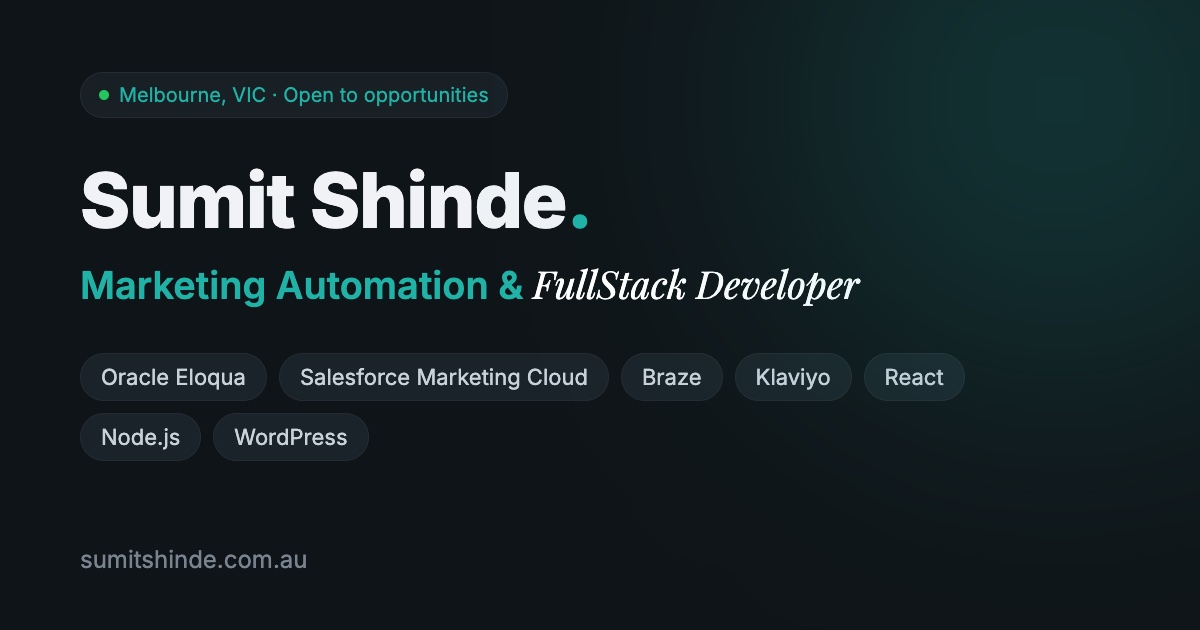
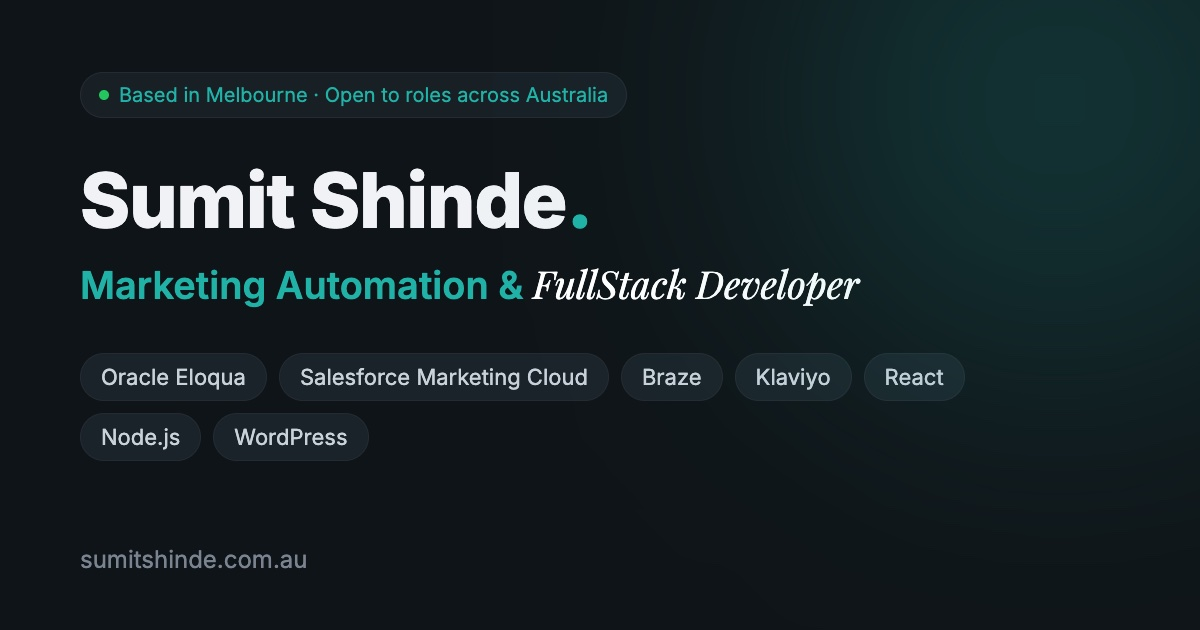
SEO: target major Australian cities, not just Melbourne
Visible availability text, meta description, crawler summary and a
schema.org seeks/areaServed list now name Sydney, Melbourne, Brisbane,
Perth, Adelaide, Canberra, Gold Coast, Hobart, Darwin and remote
Australia. Social preview badge updated to match.

Changed region(s): [[0.0925, 0.1206, 0.5242, 0.181]]

diff --git a/index.html b/index.html
@@ -10,10 +10,10 @@
       href="https://fonts.googleapis.com/css2?family=Inter:wght@400;500;600;700&family=Playfair+Display:ital@0;1&display=swap"
       rel="stylesheet"
     />
-    <title>Sumit Shinde | Marketing Automation &amp; FullStack Developer, Melbourne</title>
+    <title>Sumit Shinde | Marketing Automation &amp; FullStack Developer, Melbourne &amp; Australia-wide</title>
     <meta
       name="description"
-      content="Melbourne-based Marketing Automation and FullStack Developer skilled in Oracle Eloqua, Salesforce Marketing Cloud (SFMC), Braze, Klaviyo, React and Node.js. Open to new opportunities."
+      content="Melbourne-based Marketing Automation and FullStack Developer skilled in Oracle Eloqua, Salesforce Marketing Cloud (SFMC), Braze, Klaviyo, React and Node.js. Open to roles in Sydney, Brisbane, Perth, Adelaide, Canberra, Gold Coast, Hobart, Darwin and remote across Australia."
     />
     <meta name="robots" content="index, follow" />
     <link rel="canonical" href="https://sumitshinde.com.au/" />
@@ -23,7 +23,7 @@
     <meta property="og:title" content="Sumit Shinde | Marketing Automation &amp; FullStack Developer" />
     <meta
       property="og:description"
-      content="Oracle Eloqua, SFMC, Braze and Klaviyo specialist who also builds full-stack web apps with React and Node.js. Based in Melbourne, open to opportunities."
+      content="Oracle Eloqua, SFMC, Braze and Klaviyo specialist who also builds full-stack web apps with React and Node.js. Based in Melbourne, open to roles across Australia."
     />
     <meta property="og:url" content="https://sumitshinde.com.au/" />
     <meta property="og:image" content="https://sumitshinde.com.au/og-image.jpg" />
@@ -79,6 +79,22 @@
           "WordPress",
           "Tailwind CSS"
         ],
+        "seeks": {
+          "@type": "Demand",
+          "name": "Marketing Automation or FullStack Developer role (full-time, contract or freelance)",
+          "areaServed": [
+            { "@type": "City", "name": "Sydney" },
+            { "@type": "City", "name": "Melbourne" },
+            { "@type": "City", "name": "Brisbane" },
+            { "@type": "City", "name": "Perth" },
+            { "@type": "City", "name": "Adelaide" },
+            { "@type": "City", "name": "Canberra" },
+            { "@type": "City", "name": "Gold Coast" },
+            { "@type": "City", "name": "Hobart" },
+            { "@type": "City", "name": "Darwin" },
+            { "@type": "Country", "name": "Australia" }
+          ]
+        },
         "sameAs": [
           "https://www.linkedin.com/in/sumitshinde/",
           "https://github.com/sumitshinde559",
@@ -99,7 +115,8 @@
         </p>
         <p>
           Builds full-stack web applications with React, JavaScript, Node.js, Express, MongoDB, MySQL, PHP, WordPress and
-          Tailwind CSS. Open to full-time and freelance opportunities.
+          Tailwind CSS. Based in Melbourne and open to full-time and freelance roles in Sydney, Melbourne, Brisbane, Perth,
+          Adelaide, Canberra, Gold Coast, Hobart and Darwin, or remote anywhere in Australia.
         </p>
         <h2>Experience</h2>
         <ul>

diff --git a/src/components/sections/Contact.jsx b/src/components/sections/Contact.jsx
@@ -223,8 +223,10 @@ export const Contact = () => {
               </div>
               <p className="text-muted-foreground text-sm">
                 I'm currently open to new opportunities and exciting projects.
-                Whether you need a full-time engineer or a freelance consultant,
-                let's talk!
+                Based in Melbourne and open to roles in Sydney, Brisbane, Perth,
+                Adelaide, Canberra, Gold Coast, Hobart and Darwin, or remote
+                anywhere in Australia. Whether you need a full-time engineer or
+                a freelance consultant, let's talk!
               </p>
             </div>
           </div>
